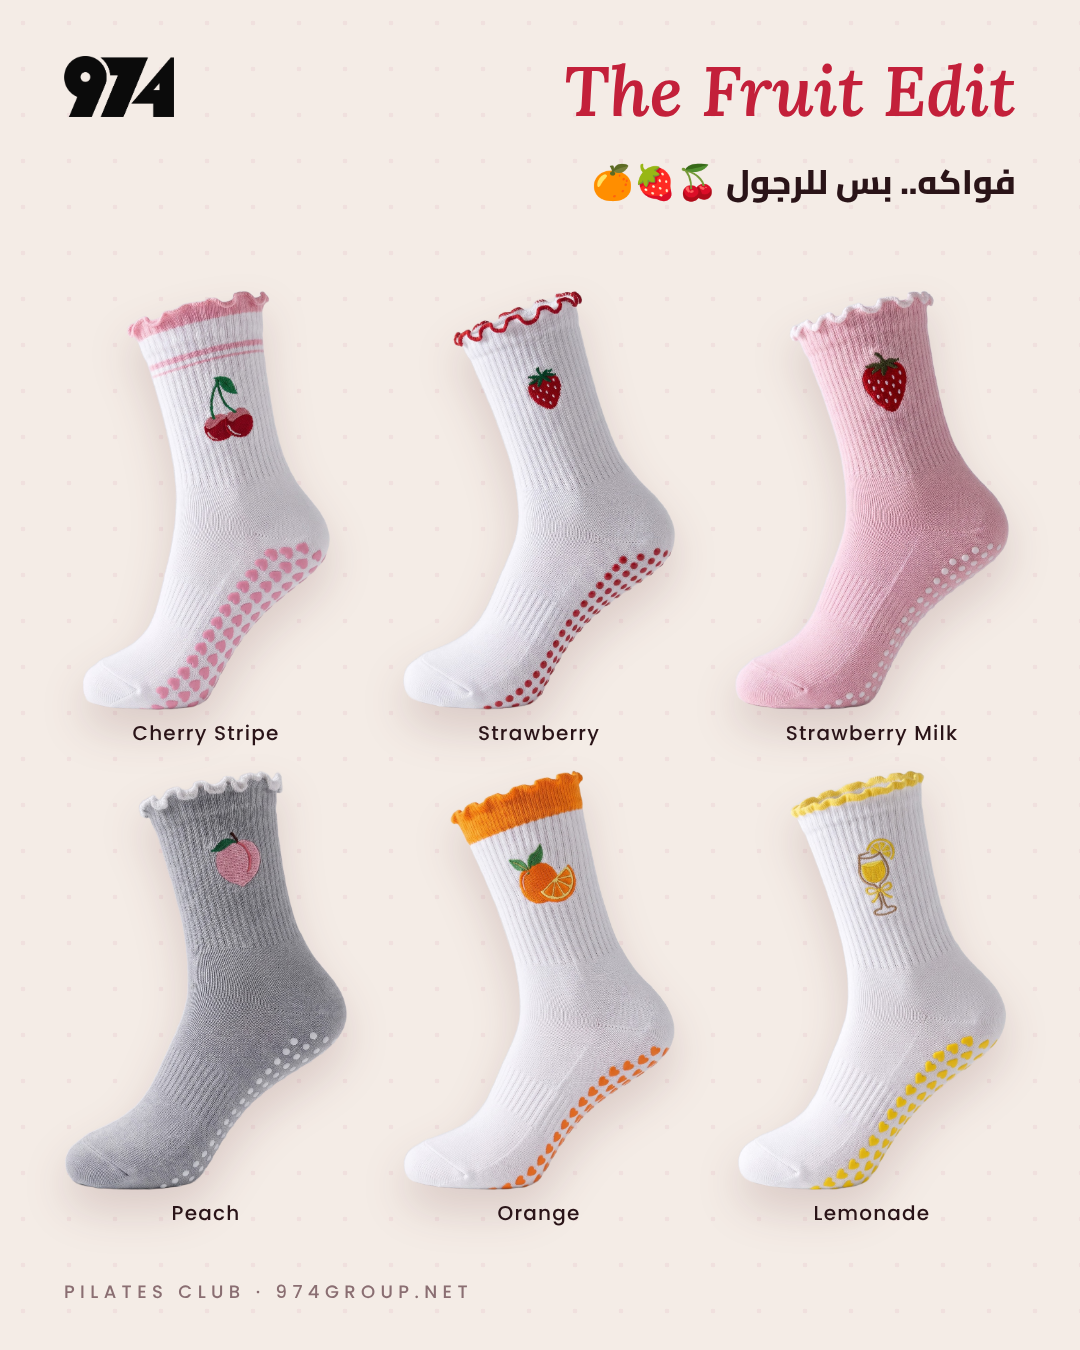
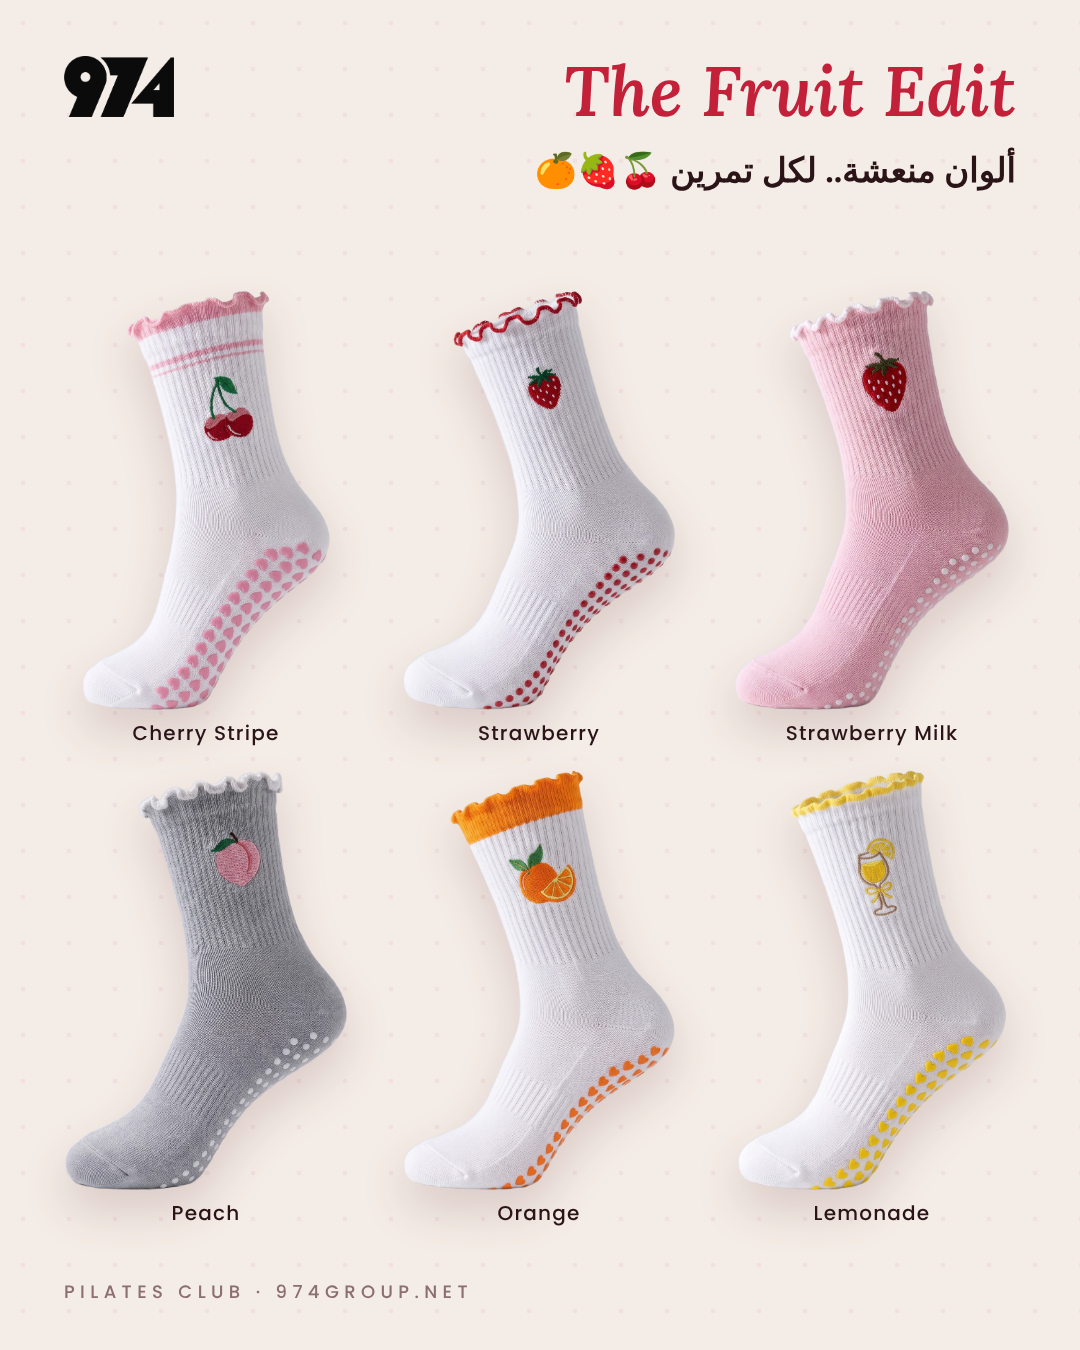
Pilates fruit edit: respectful subtitle, footer, story
Claude-Session: https://claude.ai/code/session_01K6HDWNrArsGSJekW1VcEzV

Changed region(s): [[0.4889, 0.0933, 0.9472, 0.1556]]

diff --git a/posts/2026-11/pilates-socks/src/d.html b/posts/2026-11/pilates-socks/src/d.html
@@ -1,0 +1,130 @@
+<!doctype html><html><head><meta charset="utf-8"><style>
+@font-face{font-family:'Cairo';font-weight:400 900;src:url(../aw/fonts/cairo-SLXVc1nY6HkvangtZmpQdkhzfH5lkSscQyyS8p4_RHH1.woff2)}
+@font-face{font-family:'Cairo';font-weight:400 900;src:url(../aw/fonts/cairo-SLXVc1nY6HkvangtZmpQdkhzfH5lkSscRiyS8p4_RA.woff2);unicode-range:U+0000-00FF}
+@font-face{font-family:'Poppins';font-weight:400;src:url(file:///usr/share/fonts/truetype/google-fonts/Poppins-Regular.ttf)}
+@font-face{font-family:'Poppins';font-weight:500 600;src:url(file:///usr/share/fonts/truetype/google-fonts/Poppins-Medium.ttf)}
+@font-face{font-family:'Poppins';font-weight:700 900;src:url(file:///usr/share/fonts/truetype/google-fonts/Poppins-Bold.ttf)}
+@font-face{font-family:'Lora';font-style:italic;font-weight:400 700;src:url(file:///usr/share/fonts/truetype/google-fonts/Lora-Italic-Variable.ttf)}
+*{margin:0;padding:0;box-sizing:border-box}
+body{background:#777;display:flex;flex-wrap:wrap;gap:40px;padding:40px;width:4600px;align-items:flex-start}
+.ab{position:relative;overflow:hidden;flex:none;background:#F4ECE6;color:#2A1418}
+.P{width:1080px;height:1350px}.S{width:1080px;height:1920px}
+.en{font-family:Poppins;direction:ltr;unicode-bidi:isolate}
+.ar{font-family:Cairo;direction:rtl}
+.abs{position:absolute}
+.lora{font-family:Lora;font-style:italic;font-weight:600;direction:ltr;unicode-bidi:isolate}
+.sk{position:absolute;filter:drop-shadow(0 22px 22px rgba(90,30,40,.16))}
+.nm{position:absolute;width:320px;text-align:center;font-weight:600;letter-spacing:.06em;color:#2A1418}
+.kick{position:absolute;font:600 20px Poppins;letter-spacing:.38em;color:#C3203A}
+.logo{position:absolute;width:110px}
+.cta{position:absolute;left:0;right:0;text-align:center;font:700 30px Cairo;direction:rtl;color:#2A1418}
+.chip{display:inline-block;background:#C3203A;color:#fff;border-radius:999px;padding:4px 26px 8px;font:800 30px Cairo}
+.dots{position:absolute;inset:0;background-image:radial-gradient(#E9C9CF 2.2px,transparent 2.6px);background-size:46px 46px;opacity:.55}
+.callout{position:absolute;direction:rtl;font-family:Cairo}
+.callout b{display:block;font:800 34px Cairo;color:#2A1418}
+.callout span{display:block;font:500 24px Cairo;color:#6E5458;line-height:1.35}
+.callout i{position:absolute;width:16px;height:16px;border-radius:50%;background:#C3203A;box-shadow:0 0 0 6px rgba(195,32,58,.18)}
+.line{position:absolute;height:2px;background:#C3203A;opacity:.5;transform-origin:left center}
+</style></head><body><div class="ab P" id="teaser-post">
+<img src="close_cherry.jpg" class="abs" style="left:0;top:0;width:1080px;height:1080px;object-fit:cover">
+<div class="abs" style="left:0;right:0;top:880px;height:200px;background:linear-gradient(rgba(247,239,234,0),#F7EFEA)"></div>
+<img class="logo" src="logo-black.png" style="left:64px;top:56px">
+<div class="abs lora" style="left:0;right:0;top:1010px;text-align:center;font-size:96px;color:#C3203A">Pilates Club</div>
+<div class="abs ar" style="left:0;right:0;top:1140px;text-align:center;font:800 46px Cairo">قريب.. هالأسبوع 🎀</div>
+<div class="abs en" style="left:0;right:0;top:1222px;text-align:center;font:600 20px Poppins;letter-spacing:.4em;color:#8A6E72">COMING SOON · 974GROUP.NET</div>
+</div><div class="ab S" id="teaser-story">
+<img src="close_cherry.jpg" class="abs" style="left:0;top:0;width:1080px;height:1300px;object-fit:cover">
+<div class="abs" style="left:0;right:0;top:1060px;height:240px;background:linear-gradient(rgba(247,239,234,0),#F7EFEA)"></div>
+<img class="logo" src="logo-black.png" style="left:64px;top:200px">
+<div class="abs lora" style="left:0;right:0;top:1250px;text-align:center;font-size:120px;color:#C3203A">Pilates Club</div>
+<div class="abs ar" style="left:0;right:0;top:1420px;text-align:center;font:800 58px Cairo">شي ناعم جاي لتمرينك..</div>
+<div class="abs ar" style="left:0;right:0;top:1510px;text-align:center;font:600 36px Cairo;color:#6E5458">دلاغات بيلاتيس من 974 · هالأسبوع</div>
+<div class="abs en" style="left:0;right:0;top:1640px;text-align:center;font:600 22px Poppins;letter-spacing:.4em;color:#8A6E72">COMING SOON</div>
+</div><div class="ab P" id="launch-post"><div class="dots"></div>
+<img class="logo" src="logo-black.png" style="left:64px;top:60px">
+<div class="kick en" style="right:64px;top:80px">NEW COLLECTION</div>
+<div class="abs lora" style="left:0;right:0;top:150px;text-align:center;font-size:150px;line-height:1;color:#C3203A">Pilates Club</div>
+<div class="abs ar" style="left:0;right:0;top:330px;text-align:center;font:900 60px Cairo">دلاغات البيلاتيس وصلت 🎀</div>
+<div class="abs ar" style="left:0;right:0;top:430px;text-align:center;font:600 30px Cairo;color:#6E5458">ثبات بكل حركة.. وستايل بكل تفصيلة · <span class="en">12</span> تصميم</div>
+<img class="sk" src="cherrybow.png" style="left:45px;top:520px;height:540px;"><img class="sk" src="strawpink.png" style="left:385px;top:560px;height:540px;"><img class="sk" src="redbow.png" style="left:745px;top:520px;height:540px;">
+<div class="cta" style="top:1140px">اسحب وشوف كل التصاميم 👈</div>
+<div class="abs en" style="left:0;right:0;top:1250px;text-align:center;font:600 20px Poppins;letter-spacing:.36em;color:#8A6E72">974GROUP.NET</div>
+</div><div class="ab P" id="collection-post">
+<img class="logo" src="logo-black.png" style="left:64px;top:56px">
+<div class="abs lora" style="right:64px;top:50px;font-size:64px;color:#C3203A">Pilates Club</div>
+<div class="abs ar" style="right:64px;top:140px;font:800 32px Cairo">12 تصميم.. اختاري ستايلك</div>
+<img class="sk" src="cherrybow.png" style="left:157px;top:215px;height:300px;transform:translateX(-50%)"><div class="nm en" style="left:-3px;top:515px;font-size:19px">Cherry Bow</div><img class="sk" src="redbow.png" style="left:412px;top:215px;height:300px;transform:translateX(-50%)"><div class="nm en" style="left:252px;top:515px;font-size:19px">Red Bow</div><img class="sk" src="pinkbow.png" style="left:667px;top:215px;height:300px;transform:translateX(-50%)"><div class="nm en" style="left:507px;top:515px;font-size:19px">Pink Bow</div><img class="sk" src="strawred.png" style="left:922px;top:215px;height:300px;transform:translateX(-50%)"><div class="nm en" style="left:762px;top:515px;font-size:19px">Strawberry</div><img class="sk" src="strawpink.png" style="left:157px;top:585px;height:300px;transform:translateX(-50%)"><div class="nm en" style="left:-3px;top:885px;font-size:19px">Strawberry Milk</div><img class="sk" src="cherrystripe.png" style="left:412px;top:585px;height:300px;transform:translateX(-50%)"><div class="nm en" style="left:252px;top:885px;font-size:19px">Cherry Stripe</div><img class="sk" src="peach.png" style="left:667px;top:585px;height:300px;transform:translateX(-50%)"><div class="nm en" style="left:507px;top:885px;font-size:19px">Peach</div><img class="sk" src="orange.png" style="left:922px;top:585px;height:300px;transform:translateX(-50%)"><div class="nm en" style="left:762px;top:885px;font-size:19px">Orange</div><img class="sk" src="juice.png" style="left:157px;top:955px;height:300px;transform:translateX(-50%)"><div class="nm en" style="left:-3px;top:1255px;font-size:19px">Juice Bar</div><img class="sk" src="lemonade.png" style="left:412px;top:955px;height:300px;transform:translateX(-50%)"><div class="nm en" style="left:252px;top:1255px;font-size:19px">Lemonade</div><img class="sk" src="coffee.png" style="left:667px;top:955px;height:300px;transform:translateX(-50%)"><div class="nm en" style="left:507px;top:1255px;font-size:19px">Pilates & Coffee</div><img class="sk" src="tennis.png" style="left:922px;top:955px;height:300px;transform:translateX(-50%)"><div class="nm en" style="left:762px;top:1255px;font-size:19px">Court Club</div>
+</div><div class="ab P" id="specs-post"><div class="dots" style="opacity:.3"></div>
+<img class="logo" src="logo-black.png" style="left:64px;top:56px">
+<div class="kick en" style="right:64px;top:76px">THE DETAILS</div>
+<div class="abs ar" style="right:64px;top:118px;font:900 58px Cairo">ليش دلاغات <span class="lora" style="color:#C3203A;font-size:62px">Pilates Club</span>؟</div>
+<img class="sk" src="strawred.png" style="left:30px;top:300px;height:820px;">
+<div class="callout" style="right:64px;top:300px;width:470px"><b>حافة مكشكشة 🎀</b><span>تفصيلة ناعمة ما تضغط على الرجل</span></div>
+<div class="callout" style="right:64px;top:440px;width:470px"><b>تطريز فخم</b><span>رسمة مطرّزة مب مطبوعة.. تعيش معاك</span></div>
+<div class="callout" style="right:64px;top:580px;width:470px"><b>قماش مضلّع ومريح</b><span>85% قطن · 10% نايلون · 5% سباندكس</span></div>
+<div class="callout" style="right:64px;top:740px;width:470px"><b>نعل مانع للانزلاق</b><span>حبيبات سيليكون تثبّتك على الريفورمر والمات</span></div>
+<img src="close_sole.jpg" class="abs" style="right:64px;top:900px;width:300px;height:300px;border-radius:50%;object-fit:cover;border:6px solid #fff;box-shadow:0 14px 30px rgba(90,30,40,.18)">
+<div class="callout" style="right:390px;top:960px;width:260px"><b style="font-size:30px">مقاس واحد</b><span>يناسب أغلب المقاسات (Free Size)</span></div>
+<div class="abs en" style="left:64px;top:1268px;font:600 18px Poppins;letter-spacing:.3em;color:#8A6E72">974GROUP.NET</div>
+</div><div class="ab P" id="packaging-post">
+<img src="pk/cherrybow.png" class="abs" style="left:0;top:-40px;width:1080px;height:1350px;object-fit:cover">
+<img class="logo" src="logo-black.png" style="left:64px;top:56px">
+<div class="kick en" style="right:64px;top:76px">THE PACKAGING</div>
+<div class="abs ar" style="left:0;right:0;top:1020px;text-align:center;font:900 64px Cairo">جاهزة.. حتى للهدية 🎁</div>
+<div class="abs ar" style="left:0;right:0;top:1118px;text-align:center;font:600 32px Cairo;color:#6E5458">كل جوز في باكجنق 974.. والنافذة تبين لك التطريز</div>
+<div class="abs en" style="left:0;right:0;top:1240px;text-align:center;font:600 20px Poppins;letter-spacing:.36em;color:#8A6E72">PILATES CLUB · 974GROUP.NET</div>
+</div><div class="ab P" id="packs-post">
+<img class="logo" src="logo-black.png" style="left:64px;top:56px">
+<div class="abs lora" style="right:64px;top:46px;font-size:64px;color:#C3203A">Pilates Club</div>
+<div class="abs ar" style="right:64px;top:138px;font:800 32px Cairo">12 تصميم.. كلها مغلّفة وجاهزة 🎀</div>
+<img src="pk_cherrybow.jpg" class="abs" style="left:47px;top:230px;width:318px;border-radius:14px"><img src="pk_redbow.jpg" class="abs" style="left:380px;top:230px;width:318px;border-radius:14px"><img src="pk_pinkbow.jpg" class="abs" style="left:713px;top:230px;width:318px;border-radius:14px"><img src="pk_strawred.jpg" class="abs" style="left:47px;top:492px;width:318px;border-radius:14px"><img src="pk_strawpink.jpg" class="abs" style="left:380px;top:492px;width:318px;border-radius:14px"><img src="pk_cherrystripe.jpg" class="abs" style="left:713px;top:492px;width:318px;border-radius:14px"><img src="pk_peach.jpg" class="abs" style="left:47px;top:754px;width:318px;border-radius:14px"><img src="pk_orange.jpg" class="abs" style="left:380px;top:754px;width:318px;border-radius:14px"><img src="pk_juice.jpg" class="abs" style="left:713px;top:754px;width:318px;border-radius:14px"><img src="pk_lemonade.jpg" class="abs" style="left:47px;top:1016px;width:318px;border-radius:14px"><img src="pk_coffee.jpg" class="abs" style="left:380px;top:1016px;width:318px;border-radius:14px"><img src="pk_tennis.jpg" class="abs" style="left:713px;top:1016px;width:318px;border-radius:14px">
+</div><div class="ab S" id="packaging-story">
+<img src="pk/cherrybow.png" class="abs" style="left:-140px;top:0;width:1360px;height:1920px;object-fit:cover">
+<img class="logo" src="logo-black.png" style="left:64px;top:200px">
+<div class="abs lora" style="left:0;right:0;top:330px;text-align:center;font-size:110px;color:#C3203A">Pilates Club</div>
+<div class="abs ar" style="left:0;right:0;top:1440px;text-align:center;font:900 70px Cairo">جاهزة.. حتى للهدية 🎁</div>
+<div class="abs ar" style="left:0;right:0;top:1550px;text-align:center;font:600 36px Cairo;color:#6E5458">باكجنق 974 بنافذة تبين التطريز</div>
+<div class="cta" style="top:1660px"><span class="chip">علّقي «بيلاتيس» ونرسل لك الرابط</span></div>
+</div><div class="ab P" id="fruit-edit"><div class="dots" style="opacity:.35"></div>
+<img class="logo" src="logo-black.png" style="left:64px;top:56px">
+<div class="abs lora" style="right:64px;top:46px;font-size:70px;color:#C3203A">The Fruit Edit</div>
+<div class="abs ar" style="right:64px;top:150px;font:800 34px Cairo">ألوان منعشة.. لكل تمرين 🍒🍓🍊</div>
+<img class="sk" src="cherrystripe.png" style="left:206px;top:290px;height:420px;transform:translateX(-50%)"><div class="nm en" style="left:46px;top:718px;font-size:20px">Cherry Stripe</div><img class="sk" src="strawred.png" style="left:539px;top:290px;height:420px;transform:translateX(-50%)"><div class="nm en" style="left:379px;top:718px;font-size:20px">Strawberry</div><img class="sk" src="strawpink.png" style="left:872px;top:290px;height:420px;transform:translateX(-50%)"><div class="nm en" style="left:712px;top:718px;font-size:20px">Strawberry Milk</div><img class="sk" src="peach.png" style="left:206px;top:770px;height:420px;transform:translateX(-50%)"><div class="nm en" style="left:46px;top:1198px;font-size:20px">Peach</div><img class="sk" src="orange.png" style="left:539px;top:770px;height:420px;transform:translateX(-50%)"><div class="nm en" style="left:379px;top:1198px;font-size:20px">Orange</div><img class="sk" src="lemonade.png" style="left:872px;top:770px;height:420px;transform:translateX(-50%)"><div class="nm en" style="left:712px;top:1198px;font-size:20px">Lemonade</div>
+<div class="abs en" style="left:64px;top:1278px;font:600 18px Poppins;letter-spacing:.3em;color:#8A6E72">PILATES CLUB · 974GROUP.NET</div></div><div class="ab P" id="bow-edit"><div class="dots" style="opacity:.35"></div>
+<img class="logo" src="logo-black.png" style="left:64px;top:56px">
+<div class="abs lora" style="right:64px;top:46px;font-size:70px;color:#C3203A">The Bow Edit</div>
+<div class="abs ar" style="right:64px;top:150px;font:800 34px Cairo">فيونكة لكل مزاج 🎀</div>
+<img class="sk" src="pinkbow.png" style="left:206px;top:290px;height:620px;transform:translateX(-50%)"><div class="nm en" style="left:46px;top:918px;font-size:20px">Pink Bow</div><img class="sk" src="cherrybow.png" style="left:539px;top:290px;height:620px;transform:translateX(-50%)"><div class="nm en" style="left:379px;top:918px;font-size:20px">Cherry Bow</div><img class="sk" src="redbow.png" style="left:872px;top:290px;height:620px;transform:translateX(-50%)"><div class="nm en" style="left:712px;top:918px;font-size:20px">Red Bow</div>
+<div class="abs en" style="left:64px;top:1278px;font:600 18px Poppins;letter-spacing:.3em;color:#8A6E72">PILATES CLUB · 974GROUP.NET</div></div><div class="ab P" id="coffee-edit">
+<img src="close_coffee.jpg" class="abs" style="left:0;top:0;width:1080px;height:760px;object-fit:cover">
+<img class="logo" src="logo-black.png" style="left:64px;top:56px">
+<div class="abs lora" style="right:64px;top:790px;font-size:76px;color:#6B3E2A">Pilates & Coffee ☕</div>
+<div class="abs ar" style="right:64px;top:900px;font:800 36px Cairo">كلاس الصبح.. وبعدها قهوة وكرواسون 🥐</div>
+<img class="sk" src="coffee.png" style="left:70px;top:960px;height:360px;"><img class="sk" src="tennis.png" style="left:300px;top:960px;height:360px;">
+<div class="callout" style="right:64px;top:1020px;width:520px"><b style="font-size:30px">Pilates & Coffee · Court Club</b><span>تصميمين للي يحبون الكلاس بنفس حبهم للقهوة</span></div>
+<div class="abs en" style="right:64px;top:1268px;font:600 18px Poppins;letter-spacing:.3em;color:#8A6E72">974GROUP.NET</div>
+</div><div class="ab S" id="launch-story"><div class="dots"></div>
+<img class="logo" src="logo-black.png" style="left:64px;top:200px">
+<div class="kick en" style="right:64px;top:222px">NEW COLLECTION</div>
+<div class="abs lora" style="left:0;right:0;top:300px;text-align:center;font-size:170px;line-height:1;color:#C3203A">Pilates<br>Club</div>
+<div class="abs ar" style="left:0;right:0;top:680px;text-align:center;font:900 64px Cairo">دلاغات البيلاتيس وصلت 🎀</div>
+<img class="sk" src="cherrybow.png" style="left:70px;top:840px;height:520px;"><img class="sk" src="strawpink.png" style="left:400px;top:900px;height:520px;"><img class="sk" src="redbow.png" style="left:740px;top:840px;height:520px;">
+<div class="abs ar" style="left:0;right:0;top:1470px;text-align:center;font:700 38px Cairo;color:#6E5458">12 تصميم · نعل مانع للانزلاق · تطريز</div>
+<div class="cta" style="top:1580px"><span class="chip">علّقي «بيلاتيس» ونرسل لك الرابط</span></div>
+<div class="abs en" style="left:0;right:0;top:1700px;text-align:center;font:600 22px Poppins;letter-spacing:.36em;color:#8A6E72">974GROUP.NET</div>
+</div><div class="ab S" id="collection-story">
+<img class="logo" src="logo-black.png" style="left:64px;top:200px">
+<div class="abs lora" style="right:64px;top:190px;font-size:72px;color:#C3203A">Pilates Club</div>
+<div class="abs ar" style="right:64px;top:290px;font:800 38px Cairo">12 تصميم.. أي وحدة لك؟</div>
+<img class="sk" src="cherrybow.png" style="left:206px;top:380px;height:290px;transform:translateX(-50%)"><div class="nm en" style="left:46px;top:672px;font-size:20px">Cherry Bow</div><img class="sk" src="redbow.png" style="left:539px;top:380px;height:290px;transform:translateX(-50%)"><div class="nm en" style="left:379px;top:672px;font-size:20px">Red Bow</div><img class="sk" src="pinkbow.png" style="left:872px;top:380px;height:290px;transform:translateX(-50%)"><div class="nm en" style="left:712px;top:672px;font-size:20px">Pink Bow</div><img class="sk" src="strawred.png" style="left:206px;top:735px;height:290px;transform:translateX(-50%)"><div class="nm en" style="left:46px;top:1027px;font-size:20px">Strawberry</div><img class="sk" src="strawpink.png" style="left:539px;top:735px;height:290px;transform:translateX(-50%)"><div class="nm en" style="left:379px;top:1027px;font-size:20px">Strawberry Milk</div><img class="sk" src="cherrystripe.png" style="left:872px;top:735px;height:290px;transform:translateX(-50%)"><div class="nm en" style="left:712px;top:1027px;font-size:20px">Cherry Stripe</div><img class="sk" src="peach.png" style="left:206px;top:1090px;height:290px;transform:translateX(-50%)"><div class="nm en" style="left:46px;top:1382px;font-size:20px">Peach</div><img class="sk" src="orange.png" style="left:539px;top:1090px;height:290px;transform:translateX(-50%)"><div class="nm en" style="left:379px;top:1382px;font-size:20px">Orange</div><img class="sk" src="juice.png" style="left:872px;top:1090px;height:290px;transform:translateX(-50%)"><div class="nm en" style="left:712px;top:1382px;font-size:20px">Juice Bar</div><img class="sk" src="lemonade.png" style="left:206px;top:1445px;height:290px;transform:translateX(-50%)"><div class="nm en" style="left:46px;top:1737px;font-size:20px">Lemonade</div><img class="sk" src="coffee.png" style="left:539px;top:1445px;height:290px;transform:translateX(-50%)"><div class="nm en" style="left:379px;top:1737px;font-size:20px">Pilates & Coffee</div><img class="sk" src="tennis.png" style="left:872px;top:1445px;height:290px;transform:translateX(-50%)"><div class="nm en" style="left:712px;top:1737px;font-size:20px">Court Club</div>
+</div><div class="ab S" id="specs-story"><div class="dots" style="opacity:.3"></div>
+<img class="logo" src="logo-black.png" style="left:64px;top:200px">
+<div class="abs ar" style="right:64px;top:300px;font:900 66px Cairo">التفاصيل تفرق ✨</div>
+<img class="sk" src="strawred.png" style="left:50px;top:470px;height:820px;">
+<div class="callout" style="right:64px;top:480px;width:430px"><b>حافة مكشكشة</b><span>ناعمة وما تضغط</span></div>
+<div class="callout" style="right:64px;top:640px;width:430px"><b>تطريز فخم</b><span>رسمة مطرّزة تعيش</span></div>
+<div class="callout" style="right:64px;top:800px;width:430px"><b>قطن مريح</b><span>85% قطن · 10% نايلون · 5% سباندكس</span></div>
+<div class="callout" style="right:64px;top:990px;width:430px"><b>نعل مانع للانزلاق</b><span>ثبات على الريفورمر والمات</span></div>
+<div class="callout" style="right:64px;top:1160px;width:430px"><b>مقاس واحد</b><span>Free Size</span></div>
+<img src="close_sole.jpg" class="abs" style="right:64px;top:1300px;width:300px;height:300px;border-radius:50%;object-fit:cover;border:6px solid #fff;box-shadow:0 14px 30px rgba(90,30,40,.18)"><div class="cta" style="top:1700px"><span class="chip">علّقي «بيلاتيس» ونرسل لك الرابط</span></div>
+</div></body></html>

diff --git a/posts/2026-11/pilates-socks/src/gen.py b/posts/2026-11/pilates-socks/src/gen.py
@@ -135,7 +135,7 @@ def edit(slug,title,ar,keys,h,bg='#F7EFEA'):
 <div class="abs ar" style="right:64px;top:150px;font:800 34px Cairo">{ar}</div>
 {grid(keys,cols,40,290,cw,ch,hh,hh+8,20)}
 <div class="abs en" style="left:64px;top:1278px;font:600 18px Poppins;letter-spacing:.3em;color:#8A6E72">PILATES CLUB · 974GROUP.NET</div>''')
-A.append(edit('fruit-edit','The Fruit Edit','فواكه.. بس للرجول 🍒🍓🍊',['cherrystripe','strawred','strawpink','peach','orange','lemonade'],420))
+A.append(edit('fruit-edit','The Fruit Edit','ألوان منعشة.. لكل تمرين 🍒🍓🍊',['cherrystripe','strawred','strawpink','peach','orange','lemonade'],420))
 A.append(edit('bow-edit','The Bow Edit','فيونكة لكل مزاج 🎀',['pinkbow','cherrybow','redbow'],620))
 A.append(('coffee-edit','P',f'''
 <img src="close_coffee.jpg" class="abs" style="left:0;top:0;width:1080px;height:760px;object-fit:cover">

diff --git a/posts/2026-11/pilates-socks/addfoot.py b/posts/2026-11/pilates-socks/addfoot.py
@@ -16,6 +16,7 @@ def strip(scale,out):
     subprocess.run(['node','-e',js],check=True)
 import sys as _s
 JOBS={'specs':[('974-pilates-specs-post.png',1.0,1245,(0,1255,560,1300)),('974-pilates-specs-story.png',1.12,1780,None)],
+ 'fruit':[('974-pilates-fruit-edit.png',1.0,1250,(0,1272,560,1312))],
  'pack':[('974-pilates-packaging-post.png',1.0,1238,(120,1234,960,1282)),('974-pilates-packs-post.png',1.0,1240,None),('974-pilates-packaging-story.png',1.12,1785,None)]}
 for f,scale,y,cover in JOBS[_s.argv[1] if len(_s.argv)>1 else 'specs']:
     strip(scale,'/tmp/strip.png')
